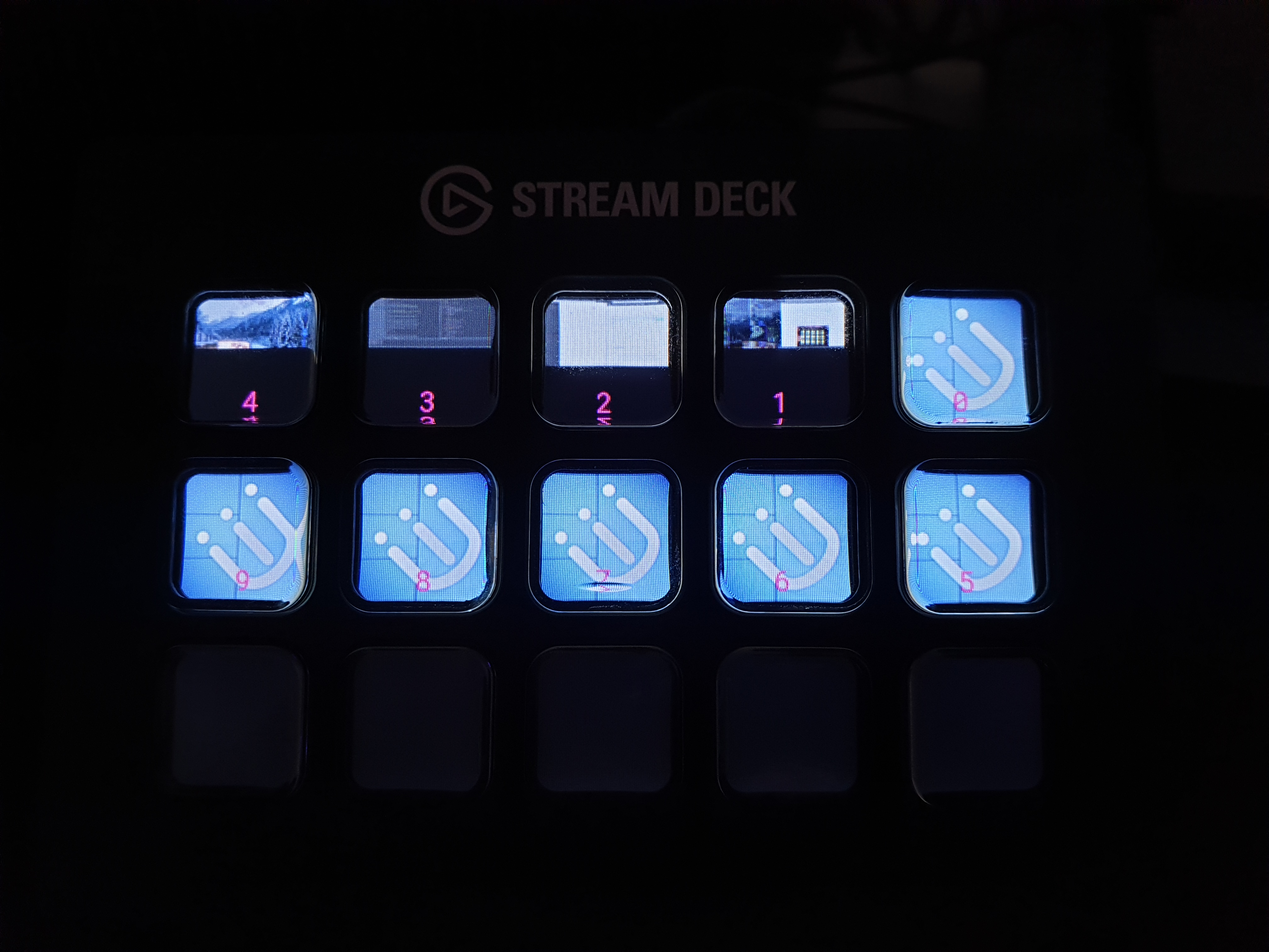
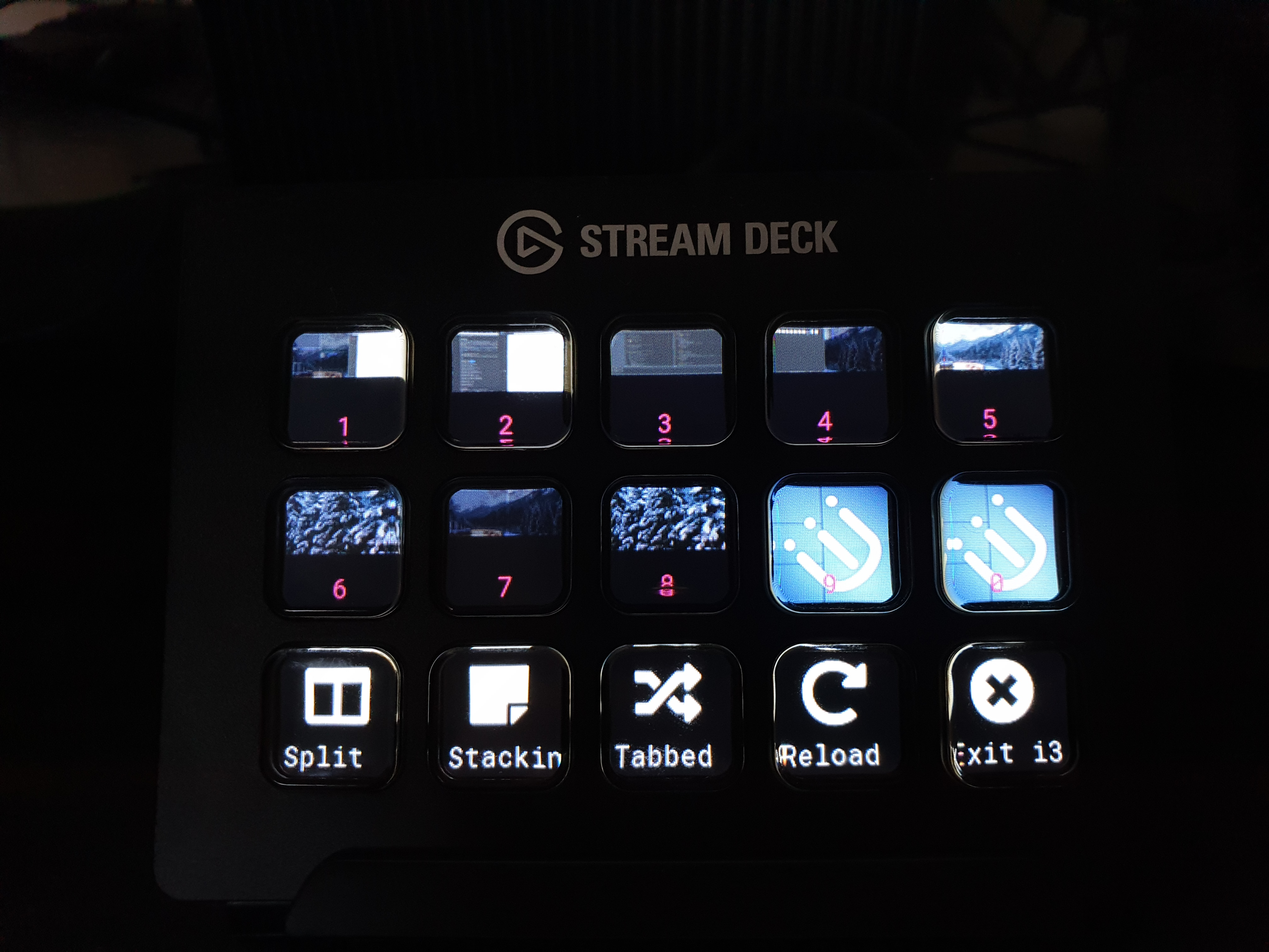
Add buttons for i3 exit, reload and layout switch

diff --git a/src/I3/I3Helper.py b/src/I3/I3Helper.py
@@ -2,15 +2,34 @@ import i3ipc
 import mss
 import mss.tools
 from PIL import Image, ImageDraw, ImageFont
+from Icon.IconHelper import IconHelper
 
 
 # Wrapper around i3
 class I3Helper(object):
-    def __init__(self, deck):
+    def __init__(self, deck, config):
+        self.deck = deck
+        self.config = config
         self.i3 = i3ipc.Connection()
         self.workspaces = self.i3.get_workspaces()
         self.image_format = deck.key_image_format()
         self.default_icon = Image.open('Assets/i3_logo.png').convert("RGBA")
+
+    def get_key_config(self, key):
+        # Make sure we have a Key config
+        for k in self.config:
+            if k['key'] == key:
+                return k
+
+        return None
+
+    def get_key_image(self, key, state):
+        key_config = self.get_key_config(key)
+
+        if key_config["type"] == "workspace":
+            return self.get_key_workspace_image(key_config)
+        elif key_config["type"] in ["exit", "reload", "layout", "dummy"]:
+            return IconHelper.prepare_fontawesome_image(self.image_format, key_config['icon'], key_config['text'])
 
     def get_workspace(self, key):
         for w in self.workspaces:
@@ -19,22 +38,12 @@ class I3Helper(object):
 
         return None
 
-    def go_to_workspace(self, key):
-        self.i3.command('workspace number ' + str(key))
-
-        # Update workspaces (could be changed)
-        self.workspaces = self.i3.get_workspaces()
-
-    def get_key_image(self, key, state):
-        if key < 10:
-            return self.get_key_workspace_image(key)
-
-    def get_key_workspace_image(self, workspace_num):
+    def get_key_workspace_image(self, key_config):
         # Check if workspace is visible
         workspace = None
 
         for ws in self.workspaces:
-            if ws.num == workspace_num and ws.visible:
+            if ws.num == key_config['workspace'] and ws.visible:
                 workspace = ws
 
         if workspace:
@@ -48,31 +57,22 @@ class I3Helper(object):
             # Default i3 Icon
             img = self.default_icon
 
-        return self.prepare_image(img, str(workspace_num))
+        return IconHelper.prepare_image(self.image_format, img, key_config['text'])
 
-    def prepare_image(self, icon, text):
-        rgb_order = self.image_format['order']
-        width = self.image_format['width']
-        height = self.image_format['height']
+    def go_to_workspace(self, workspace):
+        self.i3.command("workspace number " + str(workspace))
 
-        img = Image.new("RGB", (width, height), "black")
+        # Update workspaces (could be changed)
+        self.workspaces = self.i3.get_workspaces()
 
-        # RGB Icon
-        icon.thumbnail((width, height), Image.LANCZOS)
+    def switch_layout(self, key_config):
+        self.i3.command("layout " + key_config["layout"])
 
-        img.paste(icon, (0, 0), icon)
+        # Update workspaces (could be changed)
+        self.workspaces = self.i3.get_workspaces()
 
-        # Load a custom TrueType font and use it to overlay the key index, draw key
-        # number onto the image
-        font = ImageFont.truetype("Assets/Roboto Mono for Powerline.ttf", 16)
-        draw = ImageDraw.Draw(img)
-        draw.text((30, height - 20), text=text, font=font, fill=(255, 0, 128, 255))
+    def reload(self):
+        self.i3.command("reload")
 
-        # Get the raw r, g and b components of the generated image (note we need to
-        # flip it horizontally to match the format the StreamDeck expects)
-        r, g, b = img.transpose(Image.FLIP_LEFT_RIGHT).split()
-
-        # Recombine the B, G and R elements in the order the display expects them,
-        # and convert the resulting image to a sequence of bytes
-        rgb = {"R": r, "G": g, "B": b}
-        return Image.merge("RGB", (rgb[rgb_order[0]], rgb[rgb_order[1]], rgb[rgb_order[2]])).tobytes()
+    def exit(self):
+        self.i3.command("exit")

diff --git a/src/Icon/IconHelper.py b/src/Icon/IconHelper.py
@@ -1,0 +1,59 @@
+from PIL import Image, ImageDraw, ImageFont
+import fontawesome as fa
+
+
+class IconHelper:
+    @staticmethod
+    def prepare_fontawesome_image(image_format, icon, text):
+        rgb_order = image_format['order']
+        width = image_format['width']
+        height = image_format['height']
+
+        img = Image.new("RGB", (width, height), "black")
+
+        # Draw icon
+        if icon:
+            font = ImageFont.truetype("Assets/Font Awesome 5 Free-Solid-900.otf", 40)
+            draw = ImageDraw.Draw(img)
+            draw.text((15, 5), text=fa.icons[icon], font=font, fill=(255, 255, 255, 255))
+
+        # Load a custom TrueType font and use it to overlay the key index, draw key
+        # number onto the image
+        font = ImageFont.truetype("Assets/Roboto Mono for Powerline.ttf", 16)
+        draw = ImageDraw.Draw(img)
+        draw.text((2, height - 20), text=text, font=font, fill=(255, 255, 255, 255))
+
+        r, g, b = img.transpose(Image.FLIP_LEFT_RIGHT).split()
+
+        # Recombine the B, G and R elements in the order the display expects them,
+        # and convert the resulting image to a sequence of bytes
+        rgb = {"R": r, "G": g, "B": b}
+        return Image.merge("RGB", (rgb[rgb_order[0]], rgb[rgb_order[1]], rgb[rgb_order[2]])).tobytes()
+
+    @staticmethod
+    def prepare_image(image_format, icon, text):
+        rgb_order = image_format['order']
+        width = image_format['width']
+        height = image_format['height']
+
+        img = Image.new("RGB", (width, height), "black")
+
+        # RGB Icon
+        icon.thumbnail((width, height), Image.LANCZOS)
+
+        img.paste(icon, (0, 0), icon)
+
+        # Load a custom TrueType font and use it to overlay the key index, draw key
+        # number onto the image
+        font = ImageFont.truetype("Assets/Roboto Mono for Powerline.ttf", 16)
+        draw = ImageDraw.Draw(img)
+        draw.text((30, height - 20), text=text, font=font, fill=(255, 0, 128, 255))
+
+        # Get the raw r, g and b components of the generated image (note we need to
+        # flip it horizontally to match the format the StreamDeck expects)
+        r, g, b = img.transpose(Image.FLIP_LEFT_RIGHT).split()
+
+        # Recombine the B, G and R elements in the order the display expects them,
+        # and convert the resulting image to a sequence of bytes
+        rgb = {"R": r, "G": g, "B": b}
+        return Image.merge("RGB", (rgb[rgb_order[0]], rgb[rgb_order[1]], rgb[rgb_order[2]])).tobytes()

diff --git a/src/start.py b/src/start.py
@@ -10,6 +10,7 @@
 import StreamDeck.StreamDeck as StreamDeck
 import threading
 from I3.I3Helper import I3Helper
+import json
 
 
 # Creates a new key image based on the key index, style and current key state
@@ -18,11 +19,6 @@ def update_key_image(deck, key, state):
     im = i3_helper.get_key_image(key, state)
 
     deck.set_key_image(key, im)
-
-
-def handle_key_press_workspace(key, state):
-    # Switch workspace
-    i3_helper.go_to_workspace(key)
 
 
 # Prints key state change information, updates rhe key image and performs any
@@ -36,16 +32,37 @@ def key_change_callback(deck, key, state):
 
     # Check if the key is changing to the pressed state
     if state:
-        if key < 11:
-            handle_key_press_workspace(key, state)
+        key_config = i3_helper.get_key_config(key)
+
+        # Hardcoded for now
+        if key_config["type"] == "workspace":
+            # Switch workspace
+            i3_helper.go_to_workspace(key_config["workspace"])
+        elif key_config["type"] == "layout":
+            i3_helper.switch_layout(key_config)
+        elif key_config["type"] == "reload":
+            i3_helper.reload()
+        elif key_config["type"] == "exit":
+            i3_helper.exit()
+        else:
+            print("Dummy task", key_config["type"])
+
+
+def load_config():
+    with open("config.json", "r") as config_file:
+        config = json.load(config_file)
+        return config
 
 
 if __name__ == "__main__":
     manager = StreamDeck.DeviceManager()
     decks = manager.enumerate()
+    config = load_config()
+
+    print(config)
 
     # Hack, for now just working with one Deck
-    i3_helper = I3Helper(decks[0])
+    i3_helper = I3Helper(decks[0], config)
 
     print("Found {} Stream Decks.".format(len(decks)), flush=True)
 
